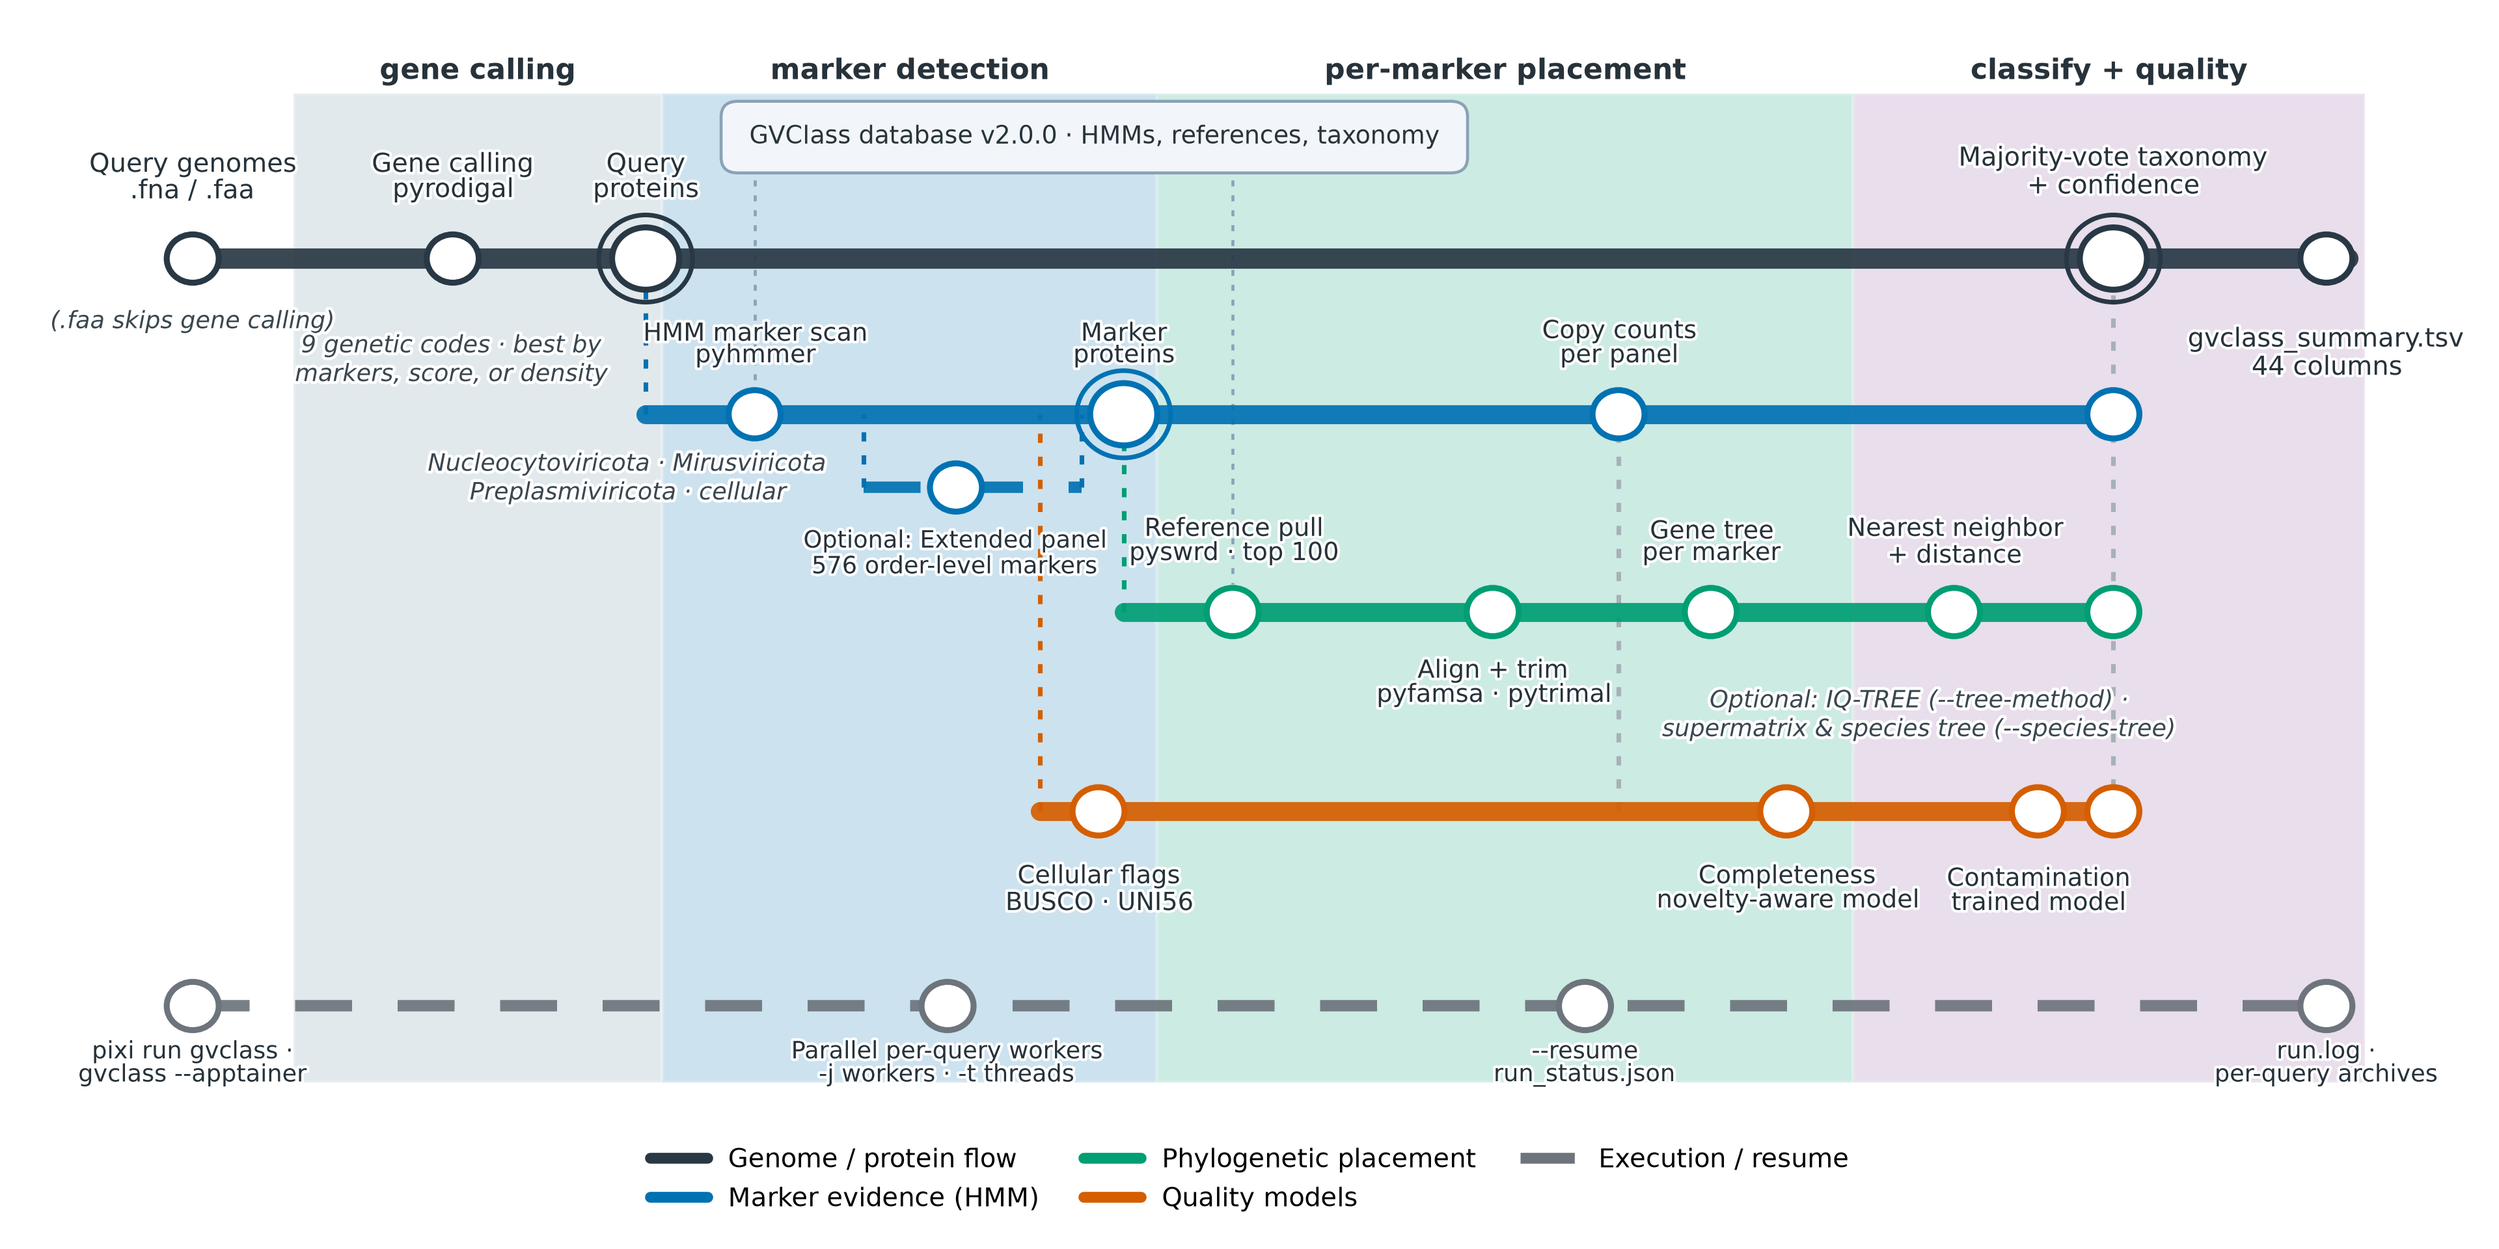
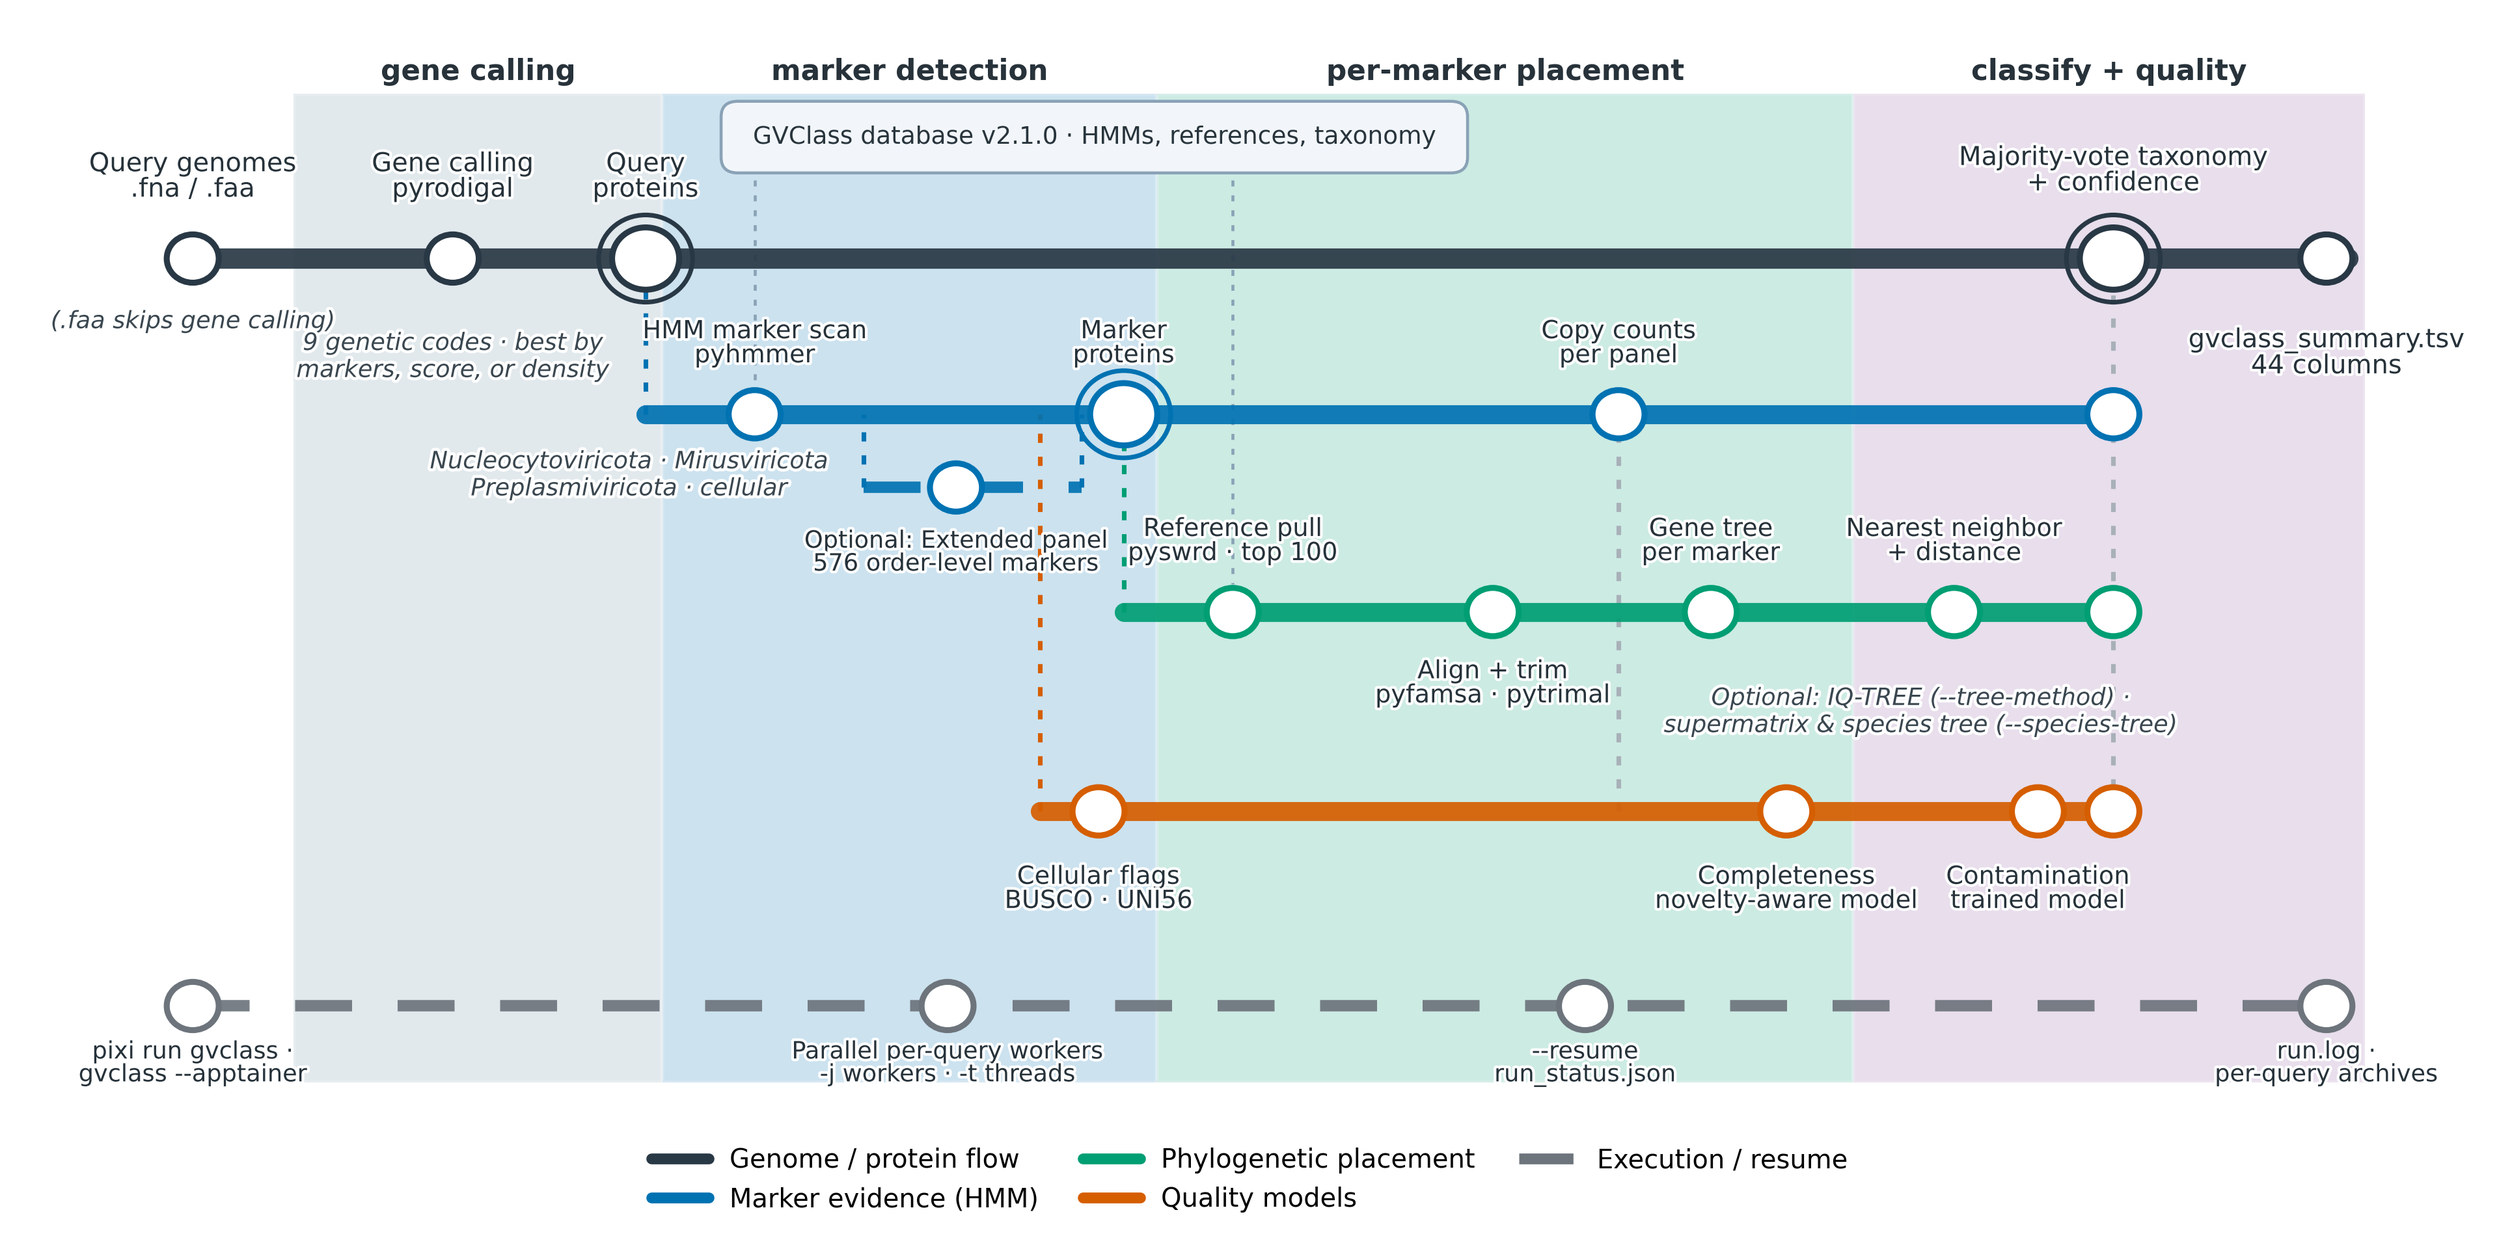
build(release): pin resource v2.1.0 and update release docs
Point the default database source, the configuration files, the container
recipes and the tests at resource archive resources_v2_1_0.tar.gz (Zenodo
record 23381313, SHA-256 0ae424b8). Rewrite the documentation that described the
v2.1.0 bundle as unpublished, redraw the workflow figure with the v2.1.0
database label, and date the 2.1.0 changelog heading.

diff --git a/tests/test_gvclass_cli.py b/tests/test_gvclass_cli.py
@@ -72,7 +72,7 @@ def test_load_config_partial_pipeline_uses_defaults(tmp_path):
     assert config["pipeline"]["mode_fast"] is True
     assert config["pipeline"]["completeness_mode"] == "novelty-aware"
     # The whole database section must still be present.
-    assert config["database"]["download_version"] == "v2.0.0"
+    assert config["database"]["download_version"] == "v2.1.0"
     assert config["database"]["cache_path"] is None
 
 
@@ -130,7 +130,7 @@ def test_configure_resource_cache_sets_configured_path_for_resource_store(
 def test_load_config_empty_file_returns_defaults(tmp_path):
     config = _load(tmp_path, "# only a comment\n")
     assert config["pipeline"]["threads"] == 4
-    assert config["database"]["download_version"] == "v2.0.0"
+    assert config["database"]["download_version"] == "v2.1.0"
     assert config["quality"]["min_length"] == 20000
 
 

diff --git a/src/utils/database_manager.py b/src/utils/database_manager.py
@@ -146,10 +146,10 @@ class DatabaseManager:
     }
 
     DEFAULT_DATABASE_SOURCE = {
-        "version": "v2.0.0",
-        "url": "https://zenodo.org/records/21225457/files/resources_v2_0_0.tar.gz?download=1",
-        "filename": "resources_v2_0_0.tar.gz",
[1 lines of base64/hex data omitted]
+        "version": "v2.1.0",
+        "url": "https://zenodo.org/records/23381313/files/resources_v2_1_0.tar.gz?download=1",
+        "filename": "resources_v2_1_0.tar.gz",
[1 lines of base64/hex data omitted]
     }
     DATABASE_VERSION = DEFAULT_DATABASE_SOURCE["version"]
 

diff --git a/src/bin/gvclass_cli.py b/src/bin/gvclass_cli.py
@@ -359,9 +359,9 @@ BUILTIN_CONFIG_DEFAULTS = {
     "database": {
         "path": "resources",
         "cache_path": None,
-        "download_url": "https://zenodo.org/records/21225457/files/resources_v2_0_0.tar.gz?download=1",
-        "download_version": "v2.0.0",
[1 lines of base64/hex data omitted]
+        "download_url": "https://zenodo.org/records/23381313/files/resources_v2_1_0.tar.gz?download=1",
+        "download_version": "v2.1.0",
[1 lines of base64/hex data omitted]
     },
     "pipeline": {
         "tree_method": "veryfasttree",

diff --git a/tests/test_repo_hygiene.py b/tests/test_repo_hygiene.py
@@ -100,7 +100,7 @@ def test_apptainer_wrapper_copies_stay_in_sync() -> None:
     for line in [
         f'DEFAULT_IMAGE = "library://nelligroup-jgi/gvclass/gvclass:{_software_version()}"',
         f'SYLABS_IMAGE = "library://nelligroup-jgi/gvclass/gvclass:{_software_version()}"',
-        'Path.home() / ".cache" / "gvclass" / "resource-cache" / "v2.0.0"',
+        'Path.home() / ".cache" / "gvclass" / "resource-cache" / "v2.1.0"',
         "def ensure_local_image(image: str) -> str:",
         "def run_container(",
     ]:

diff --git a/src/bin/gvclass_apptainer.py b/src/bin/gvclass_apptainer.py
@@ -13,7 +13,7 @@ SYLABS_IMAGE = "library://nelligroup-jgi/gvclass/gvclass:2.1.0"
 PUBLIC_LIBRARY_URL = "https://library.sylabs.io"
 IMAGE_CACHE_DIR = Path.home() / ".cache" / "gvclass" / "images"
 DEFAULT_RESOURCE_CACHE_DIR = (
-    Path.home() / ".cache" / "gvclass" / "resource-cache" / "v2.0.0"
+    Path.home() / ".cache" / "gvclass" / "resource-cache" / "v2.1.0"
 )
 CONTAINER_RESOURCE_CACHE_DIR = "/resource-cache"
 

diff --git a/scripts/gen_workflow_figure.py b/scripts/gen_workflow_figure.py
@@ -130,7 +130,7 @@ def add_resource_box(ax):
     ax.text(
         6.375,
         6.13,
-        "GVClass database v2.0.0 · HMMs, references, taxonomy",
+        "GVClass database v2.1.0 · HMMs, references, taxonomy",
         ha="center",
         va="center",
         fontsize=9.0,

diff --git a/docs/reference/configuration.md b/docs/reference/configuration.md
@@ -18,9 +18,9 @@ Built-in defaults are used if no file is found.
 database:
   path: resources
   cache_path:
-  download_url: https://zenodo.org/records/21225457/files/resources_v2_0_0.tar.gz?download=1
-  download_version: v2.0.0
-  download_sha256: df1c3a9d15a90307775f42f57e2a7c89436ed523883025f6fc94013035f5e066
+  download_url: https://zenodo.org/records/23381313/files/resources_v2_1_0.tar.gz?download=1
+  download_version: v2.1.0
+  download_sha256: 0ae424b8bd7fb46c1873cc424ac77fee81170a5762e1df53152e6d4da0559d98
 
 pipeline:
   tree_method: veryfasttree
@@ -44,12 +44,12 @@ quality:
 | `path` | `resources` | Database directory. Relative paths resolve from the repository root. |
 | `cache_path` | unset | Cache for TSV/FASTA files materialized from Parquet. Relative paths resolve inside the database directory. |
 | `download_url` | URL above | Resource archive downloaded during setup or an update. |
-| `download_version` | `v2.0.0` | Pinned database version. An older installed `DB_VERSION` triggers a download. |
+| `download_version` | `v2.1.0` | Pinned database version. An older installed `DB_VERSION` triggers a download. |
 | `download_sha256` | SHA-256 above | Expected archive checksum. |
 
 Database path precedence is `--database`, then `GVCLASS_DB`, then `database.path`.
 
-Setup uses one download source, chosen in this order: the `GVCLASS_DB_URL` environment variable, the `database.download_*` keys, then the built-in v2.0.0 source. An environment URL requires `GVCLASS_DB_SHA256`. The optional `GVCLASS_DB_VERSION` and `GVCLASS_DB_FILENAME` values describe the same archive. Setup uses only the selected source. It does not follow Zenodo's latest link or fall back to an older bundle. A Zenodo archive that GVClass finds automatically must have a valid SHA-256 sidecar. Set `GVCLASS_DB_ALLOW_UNVERIFIED=1` to opt in to an unverified environment archive.
+Setup uses one download source, chosen in this order: the `GVCLASS_DB_URL` environment variable, the `database.download_*` keys, then the built-in v2.1.0 source. An environment URL requires `GVCLASS_DB_SHA256`. The optional `GVCLASS_DB_VERSION` and `GVCLASS_DB_FILENAME` values describe the same archive. Setup uses only the selected source. It does not follow Zenodo's latest link or fall back to an older bundle. A Zenodo archive that GVClass finds automatically must have a valid SHA-256 sidecar. Set `GVCLASS_DB_ALLOW_UNVERIFIED=1` to opt in to an unverified environment archive.
 
 Compact resource bundles can store labels and reference proteins as Parquet (`parquet/labels/labels.parquet` and `parquet/faa.parquet`). Validation accepts reference proteins from `parquet/faa.parquet` or from nonempty legacy `database/faa/*.faa` files.
 
@@ -63,7 +63,7 @@ Compact resource bundles can store labels and reference proteins as Parquet (`pa
 | `iqtree_mode` | `fast` | Species-tree IQ-TREE search: `fast` or `ufboot`. Per-marker trees use `--fast`. |
 | `mode_fast` | `true` | Skip order-level marker trees; retain order-level HMM searches. |
 | `completeness_mode` | `novelty-aware` | Primary completeness estimator for bundled models: `novelty-aware` or `legacy`. |
-| `quality_models` | `bundled` | Quality model set: `bundled` or `experimental`. Experimental models require their candidate resources, nucleotide input, an accepted NCLDV assignment, extended mode, and sensitive search. |
+| `quality_models` | `bundled` | Quality model set: `bundled` or `experimental`. Experimental models require the `quality_models/` files of the resource bundle, nucleotide input, an accepted NCLDV assignment, extended mode, and sensitive search. |
 | `sensitive_mode` | `true` | Use `E=1e-5` and `domE=1e-5` instead of GA cutoffs. |
 | `contigs_min_length` | `10000` | Minimum contig length in bp for `--contigs`. |
 | `threads` | `4` | Total thread budget. |

diff --git a/docs/reference/cli.md b/docs/reference/cli.md
@@ -88,7 +88,7 @@ pixi run gvclass --help
 pixi run gvclass --version
 ```
 
-`--version` reports software version 2.1.0 and the installed database version. The public setup archive installs database v2.0.0.
+`--version` reports software version 2.1.0 and the installed database version. Database setup installs v2.1.0.
 
 ## Apptainer container mode
 
@@ -98,6 +98,6 @@ pixi run gvclass --version
 | --- | --- | --- |
 | `--apptainer` | flag | Execute inside the Apptainer SIF image (`library://nelligroup-jgi/gvclass/gvclass:2.1.0` by default). |
 | `--image` | path or URI | Local `.sif` path, `library://` URI, or `https://` URL (implies `--apptainer`). |
-| `--resource-cache-dir` | path; `~/.cache/gvclass/resource-cache/v2.0.0` | Writable host directory mounted at `/resource-cache` inside the container. |
+| `--resource-cache-dir` | path; `~/.cache/gvclass/resource-cache/v2.1.0` | Writable host directory mounted at `/resource-cache` inside the container. |
 
 All standard pipeline, species-tree, and resume flags (`-t`, `-j`, `--threads-per-worker`, `--tree-method`, `--iqtree-mode`, `--mode-fast`, `-e`/`--extended`, `--sensitive`, `--no-sensitive`, `--completeness-mode`, `--quality-models`, `--species-tree`, `--species-tree-combined`, `--species-tree-trim`, `-C`/`--contigs`, `--min-length`, `--contigs-min-length`, `--allow-short`, `--resume`, `--plain-output`, `-v`/`--verbose`) are forwarded to the container. `--config`, `--database` and the `--cluster-*` options are native-only and are rejected in container mode. When both `--sensitive` and `--no-sensitive` are given, `--no-sensitive` wins in both modes. See [run on HPC](../how-to/run-on-hpc.md) for container commands.

diff --git a/containers/README.md b/containers/README.md
@@ -36,11 +36,8 @@ The public recipes currently create a self-contained review image including:
 
 - Complete Pixi environment
 - All Python dependencies
-- Compact v2.0.0 reference database downloaded during the image build
+- Compact v2.1.0 reference database downloaded during the image build
 - GVClass source code
-
-This v2.0.0 resource image does not pass the 2.1.0 publication gate. The final
-recipe needs the approved v2.1.0 resource URL and checksum before release.
 
 ### Usage
 
@@ -61,7 +58,7 @@ singularity run \
     gvclass.sif /input -t 16
 ```
 
-The v2.0.0 resource bundle stores labels and marker proteins as Parquet inside
+The v2.1.0 resource bundle stores labels and marker proteins as Parquet inside
 the read-only SIF. GVClass materializes the TSV/FASTA views it needs under
 `GVCLASS_RESOURCE_CACHE`. Bind a host cache directory to
 `/resource-cache` for a persistent warm cache; otherwise the cache
@@ -116,7 +113,7 @@ docker run -v /path/to/data:/data gvclass:2.1.0 /data -t 32
 ## Container Features
 
 Both formats include:
-- **Database**: compact v2.0.0 reference database embedded in the final image; fetched during image creation rather than tracked in git
+- **Database**: compact v2.1.0 reference database embedded in the final image; fetched during image creation rather than tracked in git
 - **Dependencies**: All tools installed via Pixi
 - **Python packages**: pyhmmer, pyrodigal, veryfasttree, etc.
 - **Workflow**: direct GVClass pipeline execution with multi-threaded query parallelism

diff --git a/docs/how-to/run-on-hpc.md b/docs/how-to/run-on-hpc.md
@@ -53,7 +53,7 @@ The CLI options `--cluster-type`, `--cluster-queue`, `--cluster-project` and `--
 
 ## Use the Apptainer image
 
-The image includes GVClass, its dependencies and database. The 2.1.0 image is prepared but not yet published: publication is held until the v2.1.0 candidate resources pass the release checks. The published image will carry the approved resources. The `gvclass` entrypoint requires Apptainer and Python 3.10 or later on the host when used in container mode. If your cluster uses environment modules, load Apptainer before running `gvclass`.
+The image includes GVClass, its dependencies and database. The 2.1.0 image carries the v2.1.0 resources. The `gvclass` entrypoint requires Apptainer and Python 3.10 or later on the host when used in container mode. If your cluster uses environment modules, load Apptainer before running `gvclass`.
 
 ### 1. Download the launcher and image
 
@@ -87,7 +87,7 @@ The container mode accepts the output with `-o` / `--output-dir` (or as a second
 
 ### 3. Set the cache location if needed
 
-During release review, the database cache stays at the public v2.0.0 path, `~/.cache/gvclass/resource-cache/v2.0.0/`. To put it on your allocated scratch space, set `--resource-cache-dir` to that directory.
+The database cache is `~/.cache/gvclass/resource-cache/v2.1.0/`. To put it on your allocated scratch space, set `--resource-cache-dir` to that directory.
 
 | Option | Purpose |
 | --- | --- |

diff --git a/docs/how-to/configure-the-database.md b/docs/how-to/configure-the-database.md
@@ -12,11 +12,11 @@ cat resources/DB_VERSION
 
 Setup downloads and verifies the archive, then extracts it into `resources/`.
 The configured bundle is about 1.5 GB and is published on
-[Zenodo](https://doi.org/10.5281/zenodo.21225457). `DB_VERSION` records the installed
+[Zenodo](https://doi.org/10.5281/zenodo.23381313). `DB_VERSION` records the installed
 version.
 
 Setup uses one exact source. An explicit environment URL has precedence over the
-configuration block, which has precedence over the built-in v2.0.0 source. GVClass
+configuration block, which has precedence over the built-in v2.1.0 source. GVClass
 does not follow Zenodo's latest release or fall back to an older bundle. See the
 [configuration reference](../reference/configuration.md#database-keys) for the
 environment variables and checksum rules.
@@ -87,7 +87,7 @@ pixi run setup-db
 
 Setup and normal runs compare the installed `DB_VERSION` with the effective
 download source: the environment override, the configured source, or the built-in
-v2.0.0 default. When the installed bundle is older, GVClass downloads that exact
+v2.1.0 default. When the installed bundle is older, GVClass downloads that exact
 source. A newer Zenodo release does not replace it.
 
 An interactive run asks before replacing an older complete database.

diff --git a/docs/explanation/quality-metrics.md b/docs/explanation/quality-metrics.md
@@ -92,4 +92,4 @@ On 52 complete native controls, completeness error increased by 7.60 points. The
 
 The packaged models are fitted on all development data. Cross-validation results do not independently test those final fits. The contamination regressor is fitted with held-fold composition scores, while inference uses a classifier fitted on all development parents. This changes the score distribution. Model cards record the construction and its measured limits. Their fit-stage support counts precede the NCLDV restriction. The bundled `quality_models/runtime-policy.json` records the final 812/671 support counts. Mirusviricota and other accepted domains return `unsupported_target_domain`. Unsupported queries return unavailable estimates.
 
-Both candidate files belong in the resource bundle under `quality_models/`. They are not Python package data. The pinned public v2.0.0 archive does not provide these candidate files. Experimental use requires a separately staged candidate resource tree.
+Both candidate files belong in the resource bundle under `quality_models/`. They are not Python package data. The v2.1.0 resource archive provides them. A resource tree without them, such as the v2.0.0 archive, cannot run `--quality-models experimental`.
